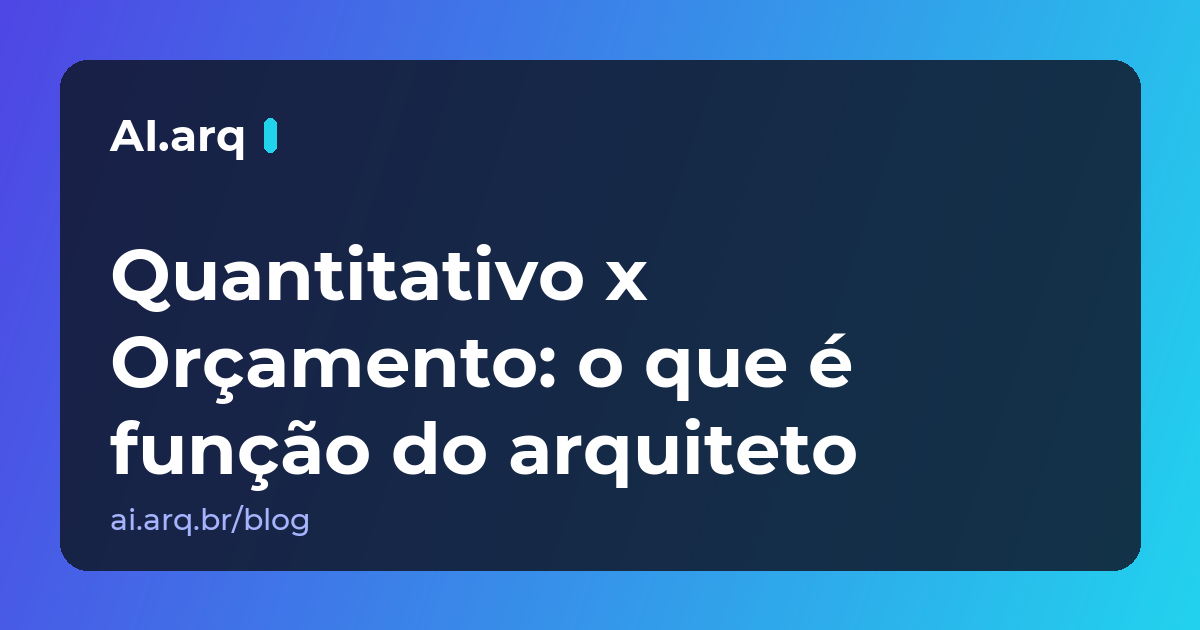
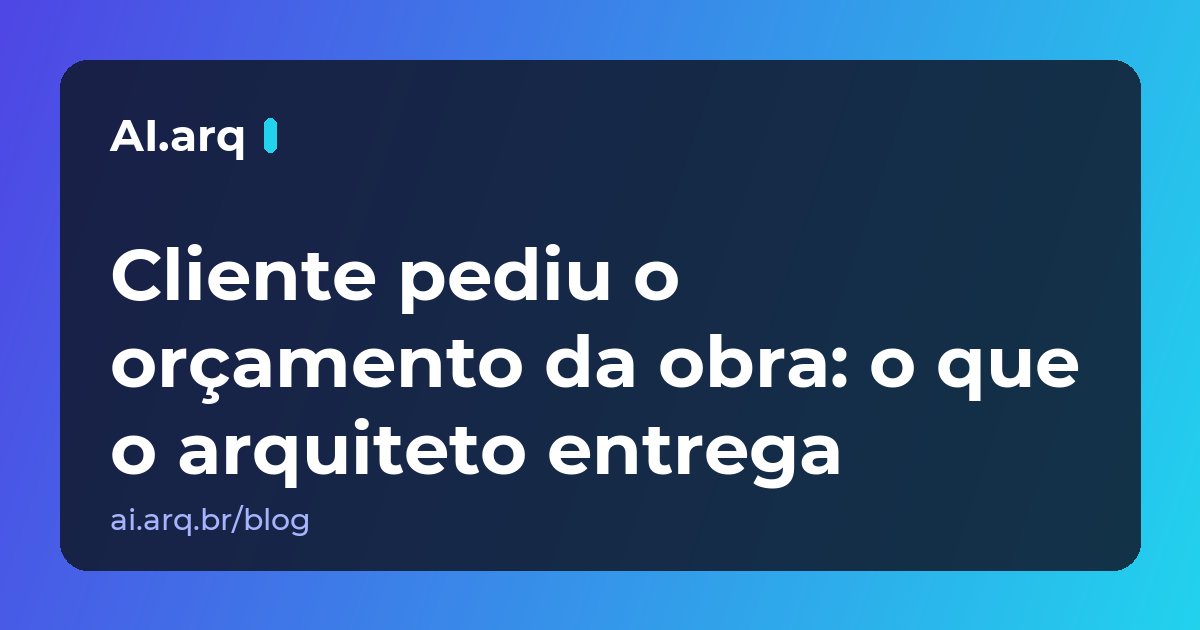
blog: o post de 15/11 vira "Cliente pediu o orçamento da obra: o que o arquiteto entrega"
O rascunho agendado ("Quantitativo x Orçamento: o que é função do
arquiteto") repetia três posts publicados (diferença orçamento x
quantitativo, por que não entregamos o preço, quanto cobrar) e se
contradizia: o título dizia que orçamento não é função do arquiteto, e a
Lei 12.378/2010 (art. 2º, X) lista "elaboração de orçamento" entre as
atribuições. Ângulo novo (Pedro escolheu a opção B do estudo de pauta): os
três pedidos por trás de "quanto vai custar" e a entrega certa de cada um
- estimativa pelo CUB com ressalvas, orçamento como serviço à parte,
quantitativo e memorial para cotar - e como cobrar.

Saem as afirmações jurídicas sem fonte direta (Lei 14.133, acórdão TCU,
"a NBR formaliza a separação"); entram resposta curta, ponte
(ponte-cliente-orcamento) e as fontes conferidas (Lei 12.378 no Planalto;
itens fora do CUB pela NBR 12721, 8.3.5, cartilha da FIEPR). Mesmo slug e
mesma data; continua em noindex até 15/11. Linha do llms.txt atualizada.

Changed region(s): [[0.0925, 0.5127, 0.8942, 0.6635], [0.0925, 0.6635, 0.7092, 0.7841], [0.1233, 0.3921, 0.5858, 0.5127]]

diff --git a/blog/posts/quantitativo-vs-orcamento-arquiteto-nao-precisa-virar-orcamentista.html b/blog/posts/quantitativo-vs-orcamento-arquiteto-nao-precisa-virar-orcamentista.html
@@ -7,9 +7,9 @@
 <link rel="preconnect" href="https://fonts.googleapis.com">
 <link rel="preconnect" href="https://fonts.gstatic.com" crossorigin>
 
-<title>Quantitativo x Orçamento: o que é função do arquiteto</title>
-<meta name="description" content="Quantitativo é a lista do o quê e quanto — função de quem projeta. Orçamento é quanto custa, função do orçamentista. A distinção técnica e jurídica.">
-<meta name="keywords" content="quantitativo vs orçamento, arquiteto orçamentista, função do arquiteto no orçamento, função orçamentista obra, tabela CAU/BR orçamento, planilha quantitativos arquitetura">
+<title>Cliente pediu o orçamento da obra: o que o arquiteto entrega</title>
+<meta name="description" content="Quando o cliente pergunta quanto a obra vai custar, são três pedidos diferentes. O que o arquiteto entrega em cada um, e como cobra, sem virar orçamentista.">
+<meta name="keywords" content="cliente pediu orçamento arquiteto, arquiteto faz orçamento de obra, estimativa de custo pelo CUB, quantitativo para cotação, orçamentista parceiro, honorário de orçamento arquiteto">
 <meta name="author" content="AI.arq">
 
 <link rel="canonical" href="https://ai.arq.br/blog/posts/quantitativo-vs-orcamento-arquiteto-nao-precisa-virar-orcamentista.html">
@@ -19,8 +19,8 @@
 <!-- Open Graph -->
 <meta property="og:type" content="article">
 <meta property="og:url" content="https://ai.arq.br/blog/posts/quantitativo-vs-orcamento-arquiteto-nao-precisa-virar-orcamentista.html">
-<meta property="og:title" content="Quantitativo x Orçamento: o que é função do arquiteto">
-<meta property="og:description" content="Quantitativo é a lista do o quê e quanto — função de quem projeta. Orçamento é quanto custa, função do orçamentista. A distinção técnica e jurídica.">
+<meta property="og:title" content="Cliente pediu o orçamento da obra: o que o arquiteto entrega">
+<meta property="og:description" content="Quando o cliente pergunta quanto a obra vai custar, são três pedidos diferentes. O que o arquiteto entrega em cada um, e como cobra, sem virar orçamentista.">
 <meta property="og:image" content="https://ai.arq.br/blog/og/quantitativo-vs-orcamento-arquiteto-nao-precisa-virar-orcamentista.png">
 <meta property="og:image:width" content="1200">
 <meta property="og:image:height" content="630">
@@ -32,8 +32,8 @@
 
 <!-- Twitter -->
 <meta name="twitter:card" content="summary_large_image">
-<meta name="twitter:title" content="Quantitativo x Orçamento: o que é função do arquiteto">
-<meta name="twitter:description" content="Quantitativo é a lista do o quê e quanto — função de quem projeta. Orçamento é quanto custa, função do orçamentista. A distinção técnica e jurídica.">
+<meta name="twitter:title" content="Cliente pediu o orçamento da obra: o que o arquiteto entrega">
+<meta name="twitter:description" content="Quando o cliente pergunta quanto a obra vai custar, são três pedidos diferentes. O que o arquiteto entrega em cada um, e como cobra, sem virar orçamentista.">
 <meta name="twitter:image" content="https://ai.arq.br/blog/og/quantitativo-vs-orcamento-arquiteto-nao-precisa-virar-orcamentista.png">
 
 <!-- Data agendada (lida por JS pra esconder antes da hora) -->
@@ -86,8 +86,8 @@
 {
   "@context": "https://schema.org",
   "@type": "Article",
-  "headline": "Quantitativo x Orçamento: o que é função do arquiteto",
-  "description": "Quantitativo é a lista do o quê e quanto — função de quem projeta. Orçamento é quanto custa, função do orçamentista. A distinção técnica e jurídica.",
+  "headline": "Cliente pediu o orçamento da obra: o que o arquiteto entrega",
+  "description": "Quando o cliente pergunta quanto a obra vai custar, são três pedidos diferentes. O que o arquiteto entrega em cada um, e como cobra, sem virar orçamentista.",
   "datePublished": "2026-11-15T10:00:00-03:00",
   "dateModified": "2026-11-15T10:00:00-03:00",
   "author": {
@@ -120,7 +120,7 @@
     "@type": "WebPage",
     "@id": "https://ai.arq.br/blog/posts/quantitativo-vs-orcamento-arquiteto-nao-precisa-virar-orcamentista.html"
   },
-  "keywords": "quantitativo vs orçamento, arquiteto orçamentista, função do arquiteto no orçamento, função orçamentista obra, tabela CAU/BR orçamento, planilha quantitativos arquitetura",
+  "keywords": "cliente pediu orçamento arquiteto, arquiteto faz orçamento de obra, estimativa de custo pelo CUB, quantitativo para cotação, orçamentista parceiro, honorário de orçamento arquiteto",
   "articleSection": "BDI/Orçamento"
 }
 </script>
@@ -144,7 +144,7 @@
     {
       "@type": "ListItem",
       "position": 3,
-      "name": "Quantitativo x Orçamento: o que é função do arquiteto",
+      "name": "Cliente pediu o orçamento da obra: o que o arquiteto entrega",
       "item": "https://ai.arq.br/blog/posts/quantitativo-vs-orcamento-arquiteto-nao-precisa-virar-orcamentista.html"
     }
   ]
@@ -204,22 +204,28 @@
   <span class="inline-block bg-indigo-100 text-indigo-700 text-xs font-semibold uppercase tracking-wide px-3 py-1 rounded-full mb-4">BDI/Orçamento</span>
 
   <!-- Título -->
-  <h1 class="text-3xl md:text-4xl font-bold text-gray-900 leading-tight mb-4">Quantitativo x Orçamento: o que é função do arquiteto</h1>
+  <h1 class="text-3xl md:text-4xl font-bold text-gray-900 leading-tight mb-4">Cliente pediu o orçamento da obra: o que o arquiteto entrega</h1>
 
   <!-- Meta -->
   <div class="flex flex-wrap items-center gap-x-4 gap-y-1 text-sm text-gray-500 mb-10 pb-6 border-b">
     <span>📅 15/11/2026</span>
     <span>·</span>
-    <span>⏱ 10 min de leitura</span>
+    <span>⏱ 5 min de leitura</span>
   </div>
 
-  
+  <div class="aiarq-resposta">
+    <div class="aiarq-resposta-rotulo">Resposta curta</div>
+    <p>Orçamento é atribuição do arquiteto (Lei 12.378/2010, art. 2º), mas é serviço à parte, com honorário próprio. Sem virar orçamentista, você pode dar uma ordem de grandeza pelo CUB, com as ressalvas por escrito; entregar o quantitativo por disciplina e o memorial para o cliente cotar; e, para o preço de contratação, fazer o orçamento como serviço contratado ou indicar um orçamentista.</p>
+  </div>
+
   <!-- Intro destacada -->
-  <p class="text-xl text-gray-700 leading-relaxed mb-8 italic">Existe uma confusão recorrente nos escritórios de arquitetura: muitos profissionais acreditam que entregar um orçamento detalhado faz parte do escopo do projeto. Não faz. Quantitativo e orçamento são produtos técnicos distintos, com responsáveis distintos, metodologia distinta e responsabilidade jurídica distinta. O autor do projeto entrega o quantitativo — a lista do que precisa ser construído e em qual magnitude. O orçamentista, profissional habilitado em engenharia de custos, pega esse quantitativo e transforma em orçamento, com cotação de mercado, encargos sociais, leis sociais, BDI e cronograma físico-financeiro. Quando arquiteto tenta fazer as duas coisas, normalmente uma das duas sai mal feita. Esse post explica a distinção segundo a literatura técnica brasileira (Aldo Mattos, Maçahico Tisaka), a normativa vigente (NBR 12721, Lei 14.133/2021) e a tabela de honorários do CAU/BR — e mostra por que delegar a precificação é mais profissional do que tentar abraçar tudo.</p>
+  <p class="text-xl text-gray-700 leading-relaxed mb-8 italic">O projeto está quase pronto e vem a pergunta de sempre: "e quanto isso vai custar?". Muito arquiteto responde montando, de graça e às pressas, uma planilha com preço de loja, e passa a responder por um número que não teve tempo nem método para fechar.
+
+Dá para fazer melhor sem virar orçamentista. A pergunta do cliente costuma esconder um de três pedidos diferentes, e cada um tem uma entrega certa: uma ordem de grandeza, um orçamento para contratar a obra ou a lista do que comprar para cotar por conta própria. Este post mostra como reconhecer o pedido, o que entregar em cada caso e como cobrar.</p>
 
   <!-- Corpo -->
   <div class="prose-aiarq">
-    <h2>Definição técnica: quantitativo é uma coisa, orçamento é outra</h2><p>Aldo Mattos, no livro de referência brasileiro "Como preparar orçamentos de obras" (3ª edição, Oficina de Textos, 2019), trabalha uma distinção que muita gente do dia a dia ignora: levantamento de quantitativos e orçamentação são etapas sequenciais e independentes do processo de custos, não a mesma coisa.</p><p>O quantitativo (também chamado de levantamento ou tomada de quantitativos) é a lista exaustiva de tudo que será construído, com suas respectivas medidas. Quantos metros quadrados de alvenaria, quantos metros lineares de tubulação hidráulica, quantos pontos elétricos, quantas portas de cada tipo. É puramente uma leitura técnica do projeto, feita pelo autor ou por equipe de orçamento sob coordenação do autor.</p><p>O orçamento, por outro lado, é a aplicação de preços unitários e composições de custo sobre esse quantitativo, com adição de encargos sociais, leis sociais e BDI (Benefícios e Despesas Indiretas). É uma atividade de engenharia de custos, com metodologia própria, fontes de preços específicas (SINAPI, cotações de mercado regionais) e responsabilidade técnica diferente.</p><p>A ABNT NBR 12721:2006, que trata da avaliação de custos unitários de construção para incorporação imobiliária, formaliza essa separação ao tratar de "quantitativo" e "orçamento" como conceitos distintos, com finalidades e métodos de cálculo próprios.</p><p>O glossário dos três termos, com um exemplo lado a lado, está em <a href="/blog/posts/diferenca-entre-orcamento-e-quantitativo.html">Diferença entre orçamento e quantitativo de obra</a>. Aqui o foco é outro: o que é função do arquiteto e o que é do orçamentista.</p><h2>Por que essa separação é mais que técnica — é jurídica</h2><p>A Lei 14.133/2021 (Nova Lei de Licitações) trata o orçamento estimado como documento próprio da fase de planejamento da contratação, distinto do quantitativo. No artigo 23, ao tratar de obras e serviços de engenharia, a lei manda definir o valor estimado a partir de parâmetros de custo referenciais — em especial a composição de custos unitários do SINAPI (ou do SICRO, no caso de infraestrutura de transportes). Ou seja: a própria lei separa o levantamento de quantidades da formação do preço, e amarra a precificação a referenciais técnicos e à responsabilidade de quem a elabora.</p><p>Na prática, isso significa que orçamento de obra pública tem natureza jurídica de documento técnico autônomo, com responsabilidade técnica registrada via ART do orçamentista. O Acórdão TCU 2622/2013 reforça a centralidade desse documento: o tribunal estabelece faixas referenciais de BDI por tipologia de obra e trata o BDI mal dimensionado como fonte relevante de sobrepreço em obras públicas, o que liga a responsabilidade técnica diretamente a quem elabora o orçamento.</p><p>No lado privado, a situação é parecida em essência. Se o arquiteto entrega ao cliente uma planilha intitulada "orçamento" e a obra estoura, ele assume responsabilidade técnica pelo valor — mesmo que tenha pego preços aleatórios de loja. Já se entrega "quantitativo" claramente identificado como tal, com observação de que a precificação será feita por orçamentista profissional, a responsabilidade fica delimitada à parte técnica do projeto.</p><h2>O que está na tabela CAU/BR — e por que a maioria ignora</h2><p>A Resolução CAU/BR nº 64/2013 aprovou a Tabela de Honorários de Serviços de Arquitetura e Urbanismo no Brasil — em cumprimento ao art. 28 da Lei 12.378/2010, que regulamenta a profissão. A tabela é organizada por fases do trabalho arquitetônico, cada fase com seu percentual de honorários sobre o custo da obra.</p><p>Duas fases importantes para o nosso tema:</p><ul><li>Projeto Executivo (PE) — inclui especificação técnica, memorial descritivo, quadro de áreas, caderno de detalhamento e, sim, o levantamento de quantidades: a tabela do CAU lista entre os produtos do projeto o "memorial quantitativo dos componentes construtivos e dos materiais de construção". É a fase em que o autor do projeto explicita o que será construído, em que magnitude, com quais materiais.</li><li>Coordenação e Compatibilização de Projetos (CC) — articulação entre disciplinas (arquitetura, estrutura, elétrica, hidráulica, AVAC), garantindo que tudo se sobreponha sem conflito.</li></ul><p>O que não está incluído na remuneração do projeto: o orçamento detalhado de obra. E aqui cabe uma correção que muito arquiteto ouve errado — <strong>elaborar orçamento É atribuição do arquiteto e urbanista</strong>: a Lei 12.378/2010, no rol de atividades da profissão, lista expressamente a "elaboração de orçamento". O ponto não é que você não possa fazer; é que é um SERVIÇO À PARTE, com honorário próprio e contratação específica, e não algo que venha de brinde junto com o projeto. Quando o cliente quer o orçamento junto, o arquiteto pode contratar um orçamentista parceiro (engenheiro civil com formação em custos, normalmente) e repassar — ou cobrar como item separado, com honorário próprio.</p><p>A maioria dos escritórios pequenos ignora essa estrutura e entrega "um Excel com valores estimados" como parte do projeto, gratuitamente. Resultado típico: arquiteto trabalhando de graça num serviço que tem honorário próprio — e, quando o faz sem prática de engenharia de custos, assumindo um risco técnico que não precisava assumir.</p><h2>Os erros clássicos quando arquiteto tenta virar orçamentista</h2><p>O orçamento elaborado por quem não é especialista em custos tende a repetir alguns vícios. Adaptando à realidade dos escritórios de arquitetura, aparecem quatro erros recorrentes:</p><ol><li>Cotação desatualizada ou regionalizada errada. O arquiteto pega o preço do porcelanato da loja em que comprou para a obra do tio em 2024 e usa no orçamento de 2026. A SINAPI publica atualização mensal, com diferenciação por estado, justamente porque preço de insumo varia ao longo do tempo e entre regiões. Sem usar referencial atualizado, o orçamento já sai errado.</li><li>BDI mal aplicado ou confuso. BDI é a sigla para Benefícios e Despesas Indiretas, e inclui despesas administrativas, despesas financeiras, riscos, tributos e lucro. O Acórdão TCU 2622/2013 estabelece faixas referenciais de BDI por tipologia de obra (edificações, rodovias, instalações elétricas, fornecimento de materiais, etc.), com limites de referência. Arquiteto sem formação em custos costuma aplicar BDI "chutado" — um percentual redondo no improviso — sem distinguir tributos cumulativos, regime de lucro presumido versus real, ou particularidades da obra.</li><li>Esquecimento de disciplinas complementares. O orçamento do arquiteto frequentemente lista só arquitetura: pisos, revestimentos, esquadrias, pintura. Esquece elétrica detalhada, hidrossanitário, sistema de combate a incêndio, climatização, automação. Esses itens têm peso relevante no custo total, e o cliente recebe orçamento subdimensionado e leva susto na execução.</li><li>Confusão entre composição e cotação direta. Composição de custo é uma equação técnica que detalha quanto entra de cada insumo (material, mão de obra, equipamento) e respectivos coeficientes para produzir uma unidade do serviço. SINAPI e TCPO publicam essas composições. Já cotação direta é o preço final cobrado por fornecedor. Misturar os dois métodos no mesmo orçamento (alguns itens compostos, outros cotados) leva a inconsistência grave, com perda de rastreabilidade.</li></ol><h2>O que o orçamentista profissional faz que o arquiteto não consegue fazer</h2><p>O orçamentista de obras é normalmente engenheiro civil com especialização em engenharia de custos, ou tecnólogo em construção civil com formação específica. Na prática, o conjunto de competências esperado inclui:</p><ul><li>Domínio de composições de referência (SINAPI, SICRO, entre outras), incluindo histórico de atualizações e diferenças metodológicas entre os referenciais</li><li>Conhecimento prático de fornecedores regionais, com rede de cotação ativa para insumos críticos (estrutura, esquadrias, sistemas especiais)</li><li>Domínio das Leis Sociais incidentes sobre mão de obra (FGTS, INSS, 13º, férias, vale-transporte, EPI), que oneram de forma expressiva o salário base</li><li>Cálculo de BDI conforme metodologia consagrada, com decomposição clara entre administração central, riscos, lucro e tributos. O Acórdão TCU 2622/2013 é a referência usual de faixas em obra pública</li><li>Elaboração de cronograma físico-financeiro coerente com a planilha, distribuindo desembolsos por mês conforme a curva S de progresso da obra</li><li>Capacidade de defender o orçamento em auditorias do TCU/TCE ou em disputas contratuais com construtoras</li></ul><p>Nada disso é trivial. São anos de prática específica, com metodologia formal. Esperar que o arquiteto desenvolva tudo isso "de lambuja" é nivelar por baixo a profissão dele e a do orçamentista — ambos saem perdendo, e o cliente também.</p><h2>O fluxo correto: quantitativo é entregável, orçamento é serviço separado</h2><p>Num processo de custos bem organizado, o ciclo de uma obra segue, em essência, esta sequência:</p><ol><li>Projetista (arquiteto + complementares) entrega projeto executivo completo, com plantas, cortes, fachadas, detalhamentos</li><li>Projetista entrega memorial descritivo, especificando materiais, marcas, classes técnicas, normas seguidas</li><li>Projetista entrega planilha de quantitativos por disciplina, com itens vinculados a códigos SINAPI/TCPO sempre que possível</li><li>Cliente recebe o pacote "projeto + memorial + quantitativo" e contrata orçamentista (separadamente, ou via indicação do arquiteto)</li><li>Orçamentista aplica preços, encargos, BDI e cronograma sobre o quantitativo entregue</li><li>Orçamentista emite orçamento com ART/RRT própria, assumindo responsabilidade técnica pela parte de custos</li><li>Cliente usa o orçamento para fechar contrato com construtora, financiamento bancário ou licitação</li></ol><p>Nesse fluxo, cada profissional faz o que sabe melhor. O arquiteto não precisa atualizar tabela de preços toda semana. O orçamentista não precisa decifrar PDF de planta. O cliente recebe dois entregáveis tecnicamente sólidos, cada um com sua responsabilidade registrada. E a obra começa com base numérica defensável, em vez de "chute educado".</p><h2>Mas e o cliente que quer "uma estimativa rápida" do arquiteto?</h2><p>A pressão é real. Cliente liga, manda o terreno, descreve a casa que quer e pergunta: "dá para me passar um valor estimado, só para eu saber se cabe no meu bolso?".</p><p>Duas saídas profissionalmente defensáveis:</p><ol><li>Custo unitário básico (CUB) — a NBR 12721:2006 estabelece o CUB como referência para estimativa de custos por metro quadrado, publicado mensalmente pelos Sindicatos da Indústria da Construção Civil (Sinduscon) de cada estado. Para obra residencial típica, o arquiteto pode multiplicar a área da casa pelo CUB do estado correspondente, ajustar pelo padrão construtivo (baixo, normal, alto) e entregar uma estimativa-bússola com ressalvas claras. É rápido, defensável e a metodologia é a norma.</li><li>Indicação direta de orçamentista parceiro — "posso te passar dois orçamentistas com quem trabalho regularmente, eles te dão o orçamento profissional baseado no que sua casa exige especificamente". Muitos clientes preferem essa opção quando entendem que vão receber algo tecnicamente sério, mesmo que paguem separado.</li></ol><p>O que não é defensável: chutar um valor por m² baseado em "feeling" de obras anteriores. Esse chute vira contrato moral para a obra atual, e quando estoura, o arquiteto vira o vilão — mesmo sem nunca ter assinado nada.</p><h2>Onde o quantitativo profissional muda o jogo</h2><p>Quando o arquiteto entrega um quantitativo bem estruturado, o orçamentista trabalha em uma fração do tempo. Sem quantitativo, ele precisa fazer o levantamento do zero — lendo a planta, contando portas, medindo tubulações — o que consome horas de trabalho manual. Com quantitativo pronto, ele pula direto para a precificação, e o cliente paga menos pelo serviço.</p><p>Na prática, um quantitativo de qualidade costuma reunir estas características:</p><ul><li>Itens organizados por disciplina (alvenaria, estrutura, hidráulica, elétrica, esquadrias, acabamentos, instalações especiais, etc.)</li><li>Cada item vinculado a código de referência (SINAPI, TCPO ou similar), para rastreabilidade da composição</li><li>Unidade de medida coerente com a composição vinculada (m², m, m³, unidade, kg)</li><li>Quantidade medida diretamente do CAD (check), e não estimada por proporção (alerta)</li><li>Memorial descritivo cruzando com o quantitativo, garantindo que a especificação técnica de cada item esteja explícita</li></ul><p>Pouco escritório entrega tudo isso porque, manualmente, leva horas. Quem dispõe de ferramenta automatizada de leitura de CAD consegue entregar — virou diferencial competitivo.</p><h2>Resumindo: dois profissionais, dois entregáveis, uma obra bem orçada</h2><p>Quantitativo é função do autor do projeto. Orçamento é função do orçamentista profissional. Misturar as duas funções costuma resultar em:</p><ul><li>Arquiteto trabalhando de graça em algo fora do escopo</li><li>Orçamento mal feito porque o arquiteto não tem prática de mercado de insumos</li><li>BDI confuso ou ausente, levando a sobrepreço ou subpreço grave</li><li>Risco jurídico desnecessário para o arquiteto quando a obra estoura</li><li>Cliente recebendo um documento híbrido que não serve nem para contratar construtora nem para ir ao banco</li></ul><p>A distinção fica clara quando entendemos: arquitetura é projeto técnico, engenharia de custos é especialidade própria. Cada um faz o que sabe melhor, e a obra fica melhor.</p><p>Para o arquiteto que quer entregar quantitativo profissional sem virar orçamentista, o caminho é gerar o quantitativo direto do CAD com metodologia rastreável (SINAPI/TCPO), entregar como anexo do projeto executivo, e indicar orçamentistas parceiros para a parte de precificação. Essa divisão de trabalho funciona — é como o mercado maduro de incorporação já opera há décadas.</p>
+    <h2>Três pedidos diferentes atrás da mesma pergunta</h2><p>Antes de responder, vale entender o que o cliente quer fazer com o número:</p><ul><li><strong>"Cabe no meu bolso?"</strong> Ele quer uma ordem de grandeza para decidir se segue com o projeto. Precisa de uma faixa, não de um valor fechado.</li><li><strong>"Quanto vou pagar para a construtora?"</strong> Ele vai contratar a obra, pedir financiamento ou comparar propostas. Aqui o pedido é um orçamento de verdade: preço unitário, encargos, BDI e um responsável.</li><li><strong>"Me passa o que precisa comprar."</strong> Ele, ou o empreiteiro dele, vai cotar com fornecedores. O que resolve é a lista de quantidades por disciplina, com a especificação de cada item.</li></ul><p>Misturar os três é o que gera problema: o cliente pede uma bússola, recebe algo com cara de orçamento e passa a tratar aquele número como promessa. A diferença entre os termos, com exemplo lado a lado, está em <a href="/blog/posts/diferenca-entre-orcamento-e-quantitativo.html">Diferença entre orçamento e quantitativo de obra</a>.</p><h2>Se ele quer uma ordem de grandeza: a estimativa pelo CUB</h2><p>O CUB (Custo Unitário Básico) segue a metodologia da ABNT NBR 12721:2006 e é calculado todo mês pelo Sinduscon de cada estado, para uma série de projetos-padrão. Multiplicar a área do projeto pelo CUB do estado e do padrão mais parecido dá uma estimativa rápida e com método conhecido.</p><p>Ela só funciona como bússola se vier com as ressalvas por escrito:</p><ul><li>o CUB é o custo por m² de projetos-padrão, não o do seu projeto;</li><li>ele não cobre a obra inteira: a própria NBR 12721 deixa de fora fundações, elevadores, equipamentos e instalações e obras complementares, entre outros itens, que precisam ser somados à parte;</li><li>o número vale para o mês de referência;</li><li>em reforma ele serve pouco, porque os projetos-padrão são de edificações novas.</li></ul><p>Mande por e-mail, com a data e a fonte. O que não se defende é o "feeling" de obras anteriores dito por telefone: ele vira contrato moral e, quando a obra estoura, o arquiteto vira o vilão mesmo sem ter assinado nada.</p><aside class="aiarq-ponte"><p>Quer ver como fica um quantitativo pronto para cotar, com a origem de cada número e o rascunho de memorial junto? <a href="/exemplo.html" data-track="ponte-cliente-orcamento">Ver um quantitativo de exemplo →</a></p></aside><h2>Se ele quer o preço para contratar: orçamento é outro serviço</h2><p>Elaborar orçamento é atribuição do arquiteto e urbanista: a Lei 12.378/2010, que regulamenta a profissão, inclui a "elaboração de orçamento" entre as atividades do art. 2º. A questão não é se você pode, e sim que é um serviço à parte. Não vem de brinde com o projeto e tem honorário e responsabilidade próprios.</p><p>Há dois caminhos defensáveis:</p><ol><li><strong>Fazer, como serviço contratado.</strong> Com escopo, prazo e honorário separados do projeto, e com o método de um orçamento: composições de referência (SINAPI ou TCPO), preços da praça atualizados, encargos sobre a mão de obra e BDI calculado, não um percentual redondo.</li><li><strong>Indicar ou contratar um orçamentista.</strong> Muitos escritórios trabalham com um parceiro de engenharia de custos e entregam o orçamento dele junto, ou deixam a contratação com o cliente.</li></ol><p>Os erros que aparecem quando o orçamento sai como favor, de improviso:</p><ul><li>preço de loja de outra obra, de outra cidade ou de outro ano; a SINAPI é atualizada todo mês e por estado justamente porque preço muda no tempo e no lugar;</li><li>BDI "chutado", sem separar administração, riscos, tributos e lucro (o cálculo está em <a href="/blog/posts/bdi-em-obra-o-que-e-como-calcular.html">BDI em obra: o que é e como calcular</a>);</li><li>só a arquitetura orçada, sem elétrica, hidráulica, incêndio e climatização;</li><li>itens por composição e itens por cotação direta misturados na mesma planilha, sem dizer qual é qual.</li></ul><h2>Se ele quer cotar por conta própria: entregue o quantitativo e o memorial</h2><p>Quando o cliente ou o empreiteiro vão cotar, o que eles precisam saber é o que comprar e quanto. Isso é quantitativo, e ele nasce do projeto que você fez. Um quantitativo que serve para cotar tem:</p><ul><li>itens por disciplina, com a unidade (m², m, un, kg) coerente com o serviço;</li><li>a origem de cada quantidade, medida do desenho ou estimada, para quem cota saber o que conferir;</li><li>o código de referência (SINAPI) onde houver correspondência, para o fornecedor entender o serviço;</li><li>o memorial descritivo junto, com a especificação que o desenho não mostra.</li></ul><p>E escrito no próprio arquivo: <em>quantitativo, sem preços; não é orçamento</em>. É essa linha que deixa claro o que você entregou. Com a lista pronta, o orçamentista, se houver um, também trabalha mais rápido: pula o levantamento e vai direto para os preços.</p><h2>Como responder ao cliente</h2><p>Uma resposta curta, por escrito, que já separa os três pedidos:</p><p>"Consigo te passar agora uma estimativa pelo CUB, com as ressalvas por escrito. Ela serve para saber se o projeto cabe no orçamento, não para contratar. Para contratar a obra, o certo é um orçamento detalhado: posso fazer como serviço à parte ou te indicar um orçamentista com quem trabalho. E junto com o executivo vão a planilha de quantitativos e o memorial, para você ou a construtora cotarem."</p><p>Ajuste ao seu jeito de falar. O importante é que cada número saia com o nome certo.</p><h2>Como cobrar cada entrega</h2><p>A estimativa pelo CUB pode entrar no estudo preliminar. O quantitativo e o memorial podem fazer parte do escopo do executivo ou ser cobrados à parte. O orçamento detalhado é sempre um serviço separado, com honorário próprio.</p><p>As formas de cobrar (por porte, por prancha, por m² ou por hora) e a tabela de honorários do CAU/BR estão em <a href="/blog/posts/quanto-cobrar-planilha-quantitativos-2026.html">Quanto cobrar por planilha de quantitativos</a>.</p><h2>Resumindo</h2><ul><li><strong>"Cabe no bolso?"</strong> Estimativa pelo CUB, com data, fonte e ressalvas por escrito.</li><li><strong>"Quanto vou pagar?"</strong> Orçamento detalhado, como serviço à parte, feito por você ou por um orçamentista.</li><li><strong>"O que eu compro?"</strong> Quantitativo por disciplina e memorial, marcados como "sem preços".</li></ul><p>Nos três casos, o número sai com o nome certo, e fica claro o que você entregou.</p>
   </div>
 
   <!-- Compartilhar (28/08/2026) -->
@@ -251,7 +257,7 @@
   <!-- CTA -->
   <div class="mt-12 p-8 rounded-2xl bg-gradient-to-br from-indigo-50 to-cyan-50 border-2 border-indigo-100">
     <h3 class="text-xl font-bold text-gray-900 mb-3">⚡ Pronto pra acelerar seu trabalho?</h3>
-    <p class="text-gray-700 mb-5">O AI.arq foi pensado exatamente para essa divisão de trabalho. Você sobe o CAD do projeto (PDF, DWG ou DXF), a IA lê todas as pranchas e devolve a planilha de quantitativos, com o código SINAPI de referência nos itens em que há correspondência confiável. Não há precificação — porque essa não é a função. Você recebe um entregável pronto para anexar ao projeto executivo e passar para o orçamentista de confiança. Economiza horas para você e para ele, e o cliente ganha dois documentos tecnicamente sólidos em vez de um híbrido confuso. No beta, é grátis — quantos projetos quiser — em ai.arq.br.</p>
+    <p class="text-gray-700 mb-5">O AI.arq faz a parte do quantitativo. Você sobe o DWG, DXF ou PDF do projeto e recebe a planilha por disciplina, com cada linha marcada como medida do desenho ou estimada, o código SINAPI de referência onde há correspondência e a coluna de preço em branco. Do mesmo quantitativo sai um rascunho de memorial descritivo, para você completar e assinar. Preço, encargos e BDI continuam com quem orça. No beta, é grátis, quantos projetos quiser.</p>
     <div class="flex flex-wrap items-center gap-3">
       <a href="/login.html?novo=1" data-track="blog-cta-cadastro" class="inline-flex items-center gap-2 gradient-main text-white font-semibold px-6 py-3 rounded-xl no-underline shadow-btn">
         Começar grátis
@@ -274,7 +280,7 @@
         <svg class="w-4 h-4" fill="none" stroke="currentColor" viewBox="0 0 24 24"><path stroke-linecap="round" stroke-linejoin="round" stroke-width="2" d="M12 6.253v13m0-13C10.832 5.477 9.246 5 7.5 5S4.168 5.477 3 6.253v13C4.168 18.477 5.754 18 7.5 18s3.332.477 4.5 1.253m0-13C13.168 5.477 14.754 5 16.5 5c1.747 0 3.332.477 4.5 1.253v13C19.832 18.477 18.247 18 16.5 18c-1.746 0-3.332.477-4.5 1.253"/></svg>
         Fontes &amp; Referências
       </h3>
-      <div class="mb-4"><div class="text-xs font-semibold uppercase tracking-wide text-gray-500 mb-2">Normas ABNT</div><ul class="space-y-1.5 text-sm text-gray-700"><li><strong>ABNT NBR 12721:2006</strong> &mdash; <span class="text-gray-600">Avaliação de custos unitários de construção para incorporação imobiliária e outras disposições para condomínios edilícios — Procedimento (CUB)</span></li></ul></div><div class="mb-4"><div class="text-xs font-semibold uppercase tracking-wide text-gray-500 mb-2">Leis e Atos Normativos</div><ul class="space-y-1.5 text-sm text-gray-700"><li><strong>Lei Federal 14.133/2021</strong> &mdash; <span class="text-gray-600">Nova Lei de Licitações e Contratos Administrativos — define o orçamento estimado e amarra os parâmetros do valor estimado a referenciais de custo como SINAPI/SICRO (art. 23)</span></li><li><strong>Resolução CAU/BR 64/2013</strong> &mdash; <span class="text-gray-600">Aprova o Módulo I das Tabelas de Honorários de Serviços de Arquitetura e Urbanismo (Remuneração do Projeto Arquitetônico de Edificações) — referência para a separação entre projeto e serviços de orçamento</span></li><li><strong>Acórdão TCU 2622/2013 — Plenário</strong> &mdash; <span class="text-gray-600">Estabelece parâmetros de referência para taxas de BDI por tipologia de obra em obras públicas com recursos federais e a responsabilidade técnica de quem elabora o orçamento</span></li><li><strong>OT-IBR 004/2012 — Precisão do orçamento de obras públicas</strong> &mdash; <span class="text-gray-600">Orientação Técnica do IBRAOP — Instituto Brasileiro de Auditoria de Obras Públicas, sobre a precisão do orçamento de obras públicas</span></li></ul></div><div class="mb-4"><div class="text-xs font-semibold uppercase tracking-wide text-gray-500 mb-2">Livros e Manuais</div><ul class="space-y-1.5 text-sm text-gray-700"><li><strong>Como preparar orçamentos de obras: dicas para orçamentistas, estudos de caso, exemplos (3ª ed.)</strong> &mdash; Aldo Dórea Mattos <span class="text-gray-500">(Editora Oficina de Textos, 2019)</span></li><li><strong>Orçamento na Construção Civil: Consultoria, Projeto e Execução</strong> &mdash; Maçahico Tisaka <span class="text-gray-500">(Editora PINI, 2006)</span></li></ul></div><div><div class="text-xs font-semibold uppercase tracking-wide text-gray-500 mb-2">Web</div><ul class="space-y-1.5 text-sm text-gray-700"><li><a href="https://www.caixa.gov.br/poder-publico/modernizacao-gestao/sinapi/Paginas/default.aspx" target="_blank" rel="noopener nofollow" class="text-indigo-600 hover:text-indigo-800">SINAPI — Sistema Nacional de Pesquisa de Custos e Índices da Construção Civil</a> <span class="text-gray-500">&middot; Caixa Econômica Federal / IBGE</span></li><li><a href="https://www.tcpoweb.com.br/" target="_blank" rel="noopener nofollow" class="text-indigo-600 hover:text-indigo-800">Tabela TCPO — Tabelas de Composições de Preços para Orçamentos</a> <span class="text-gray-500">&middot; Editora PINI / TCPOweb</span></li><li><a href="https://www.cub.org.br/" target="_blank" rel="noopener nofollow" class="text-indigo-600 hover:text-indigo-800">CUB/m² — Custo Unitário Básico da Construção Civil</a> <span class="text-gray-500">&middot; CBIC / Sinduscon</span></li></ul></div>
+      <div class="mb-4"><div class="text-xs font-semibold uppercase tracking-wide text-gray-500 mb-2">Normas ABNT</div><ul class="space-y-1.5 text-sm text-gray-700"><li><strong>ABNT NBR 12721:2006</strong> &mdash; <span class="text-gray-600">Avaliação de custos unitários de construção para incorporação imobiliária e outras disposições para condomínios edilícios — Procedimento (metodologia do CUB e itens não incluídos, 8.3.5)</span></li></ul></div><div class="mb-4"><div class="text-xs font-semibold uppercase tracking-wide text-gray-500 mb-2">Livros e Manuais</div><ul class="space-y-1.5 text-sm text-gray-700"><li><strong>Como preparar orçamentos de obras: dicas para orçamentistas, estudos de caso, exemplos (3ª ed.)</strong> &mdash; Aldo Dórea Mattos <span class="text-gray-500">(Editora Oficina de Textos, 2019)</span></li></ul></div><div><div class="text-xs font-semibold uppercase tracking-wide text-gray-500 mb-2">Web</div><ul class="space-y-1.5 text-sm text-gray-700"><li><a href="https://www.planalto.gov.br/ccivil_03/_ato2007-2010/2010/lei/l12378.htm" target="_blank" rel="noopener nofollow" class="text-indigo-600 hover:text-indigo-800">Lei nº 12.378/2010 — regulamenta o exercício da Arquitetura e Urbanismo (art. 2º, X: elaboração de orçamento)</a> <span class="text-gray-500">&middot; Presidência da República</span></li><li><a href="https://www.fiepr.org.br/central-de-informacoes/relacoes-sindicais/uploadAddress/CARTILHA-CUB[93964].pdf" target="_blank" rel="noopener nofollow" class="text-indigo-600 hover:text-indigo-800">Cartilha do CUB — Custo Unitário Básico</a> <span class="text-gray-500">&middot; FIEPR</span></li><li><a href="https://www.caixa.gov.br/poder-publico/modernizacao-gestao/sinapi/Paginas/default.aspx" target="_blank" rel="noopener nofollow" class="text-indigo-600 hover:text-indigo-800">SINAPI — Sistema Nacional de Pesquisa de Custos e Índices da Construção Civil</a> <span class="text-gray-500">&middot; Caixa Econômica Federal / IBGE</span></li><li><a href="https://www.tcpoweb.com.br/" target="_blank" rel="noopener nofollow" class="text-indigo-600 hover:text-indigo-800">Tabela TCPO — Tabelas de Composições de Preços para Orçamentos</a> <span class="text-gray-500">&middot; Editora PINI / TCPOweb</span></li></ul></div>
       <p class="mt-4 text-xs text-gray-400 italic">
         Última atualização: 15/11/2026. Normas e documentos citados podem ter sido revisados após esta data — sempre consulte a versão vigente.
       </p>

diff --git a/blog/gerar_llms.py b/blog/gerar_llms.py
@@ -95,8 +95,8 @@ LINHAS = {
         'Memorial a partir do quantitativo: o caminho inverso',
         'por que levantar o quantitativo antes e escrever o memorial em cima dele funciona melhor do que o caminho ensinado na faculdade.'),
     'quantitativo-vs-orcamento-arquiteto-nao-precisa-virar-orcamentista': ('Quantitativo x orçamento: onde termina o nosso trabalho',
-        'Quantitativo x orçamento: o que é função do arquiteto',
-        'a distinção técnica e jurídica entre quantitativo (o quê e quanto, de quem projeta) e orçamento (quanto custa, do orçamentista).'),
+        'Cliente pediu o orçamento da obra: o que o arquiteto entrega',
+        'os três pedidos por trás de "quanto vai custar" (estimativa pelo CUB, orçamento como serviço à parte, quantitativo e memorial para cotar) e como cobrar cada um.'),
     'bdi-em-obra-o-que-e-como-calcular': ('Quantitativo x orçamento: onde termina o nosso trabalho',
         'BDI em obra: o que é e como calcular (Acórdão TCU 2622/2013)',
         'os componentes do BDI, a fórmula adotada pelo TCU, as faixas por tipo de obra e um exemplo de cálculo — a parte do preço, que fica com quem orça.'),
